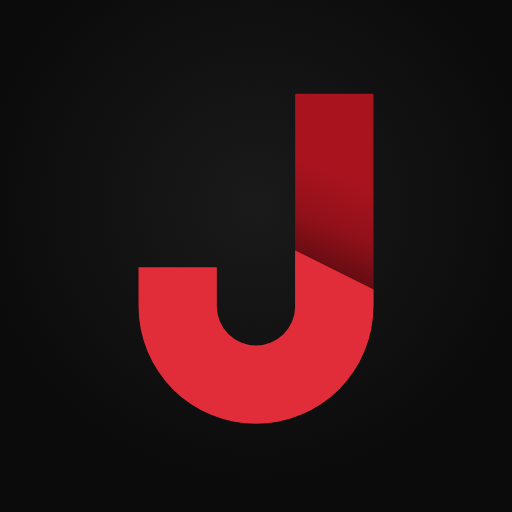
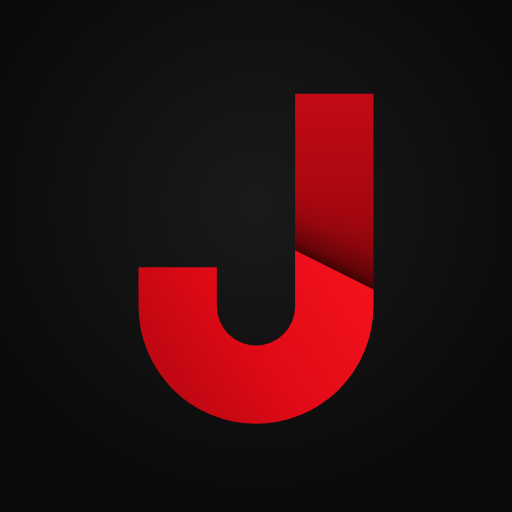
feat(brand): richer J shading
Purer reds, a back ribbon that darkens toward the fold, a cast shadow that
is darkest at the crease and fades quickly, and a front ribbon lit from the
top right that deepens round the bowl. Same shape. Icons and plugin image
re-rendered.

Changed region(s): [[0.25, 0.4688, 0.75, 0.8438], [0.5625, 0.1562, 0.75, 0.2188]]

diff --git a/client/src/components/LumenMark.test.tsx b/client/src/components/LumenMark.test.tsx
@@ -9,7 +9,7 @@ describe('LumenMark', () => {
     const mark = container.querySelector('.lmn-mark.x')!;
     expect(mark.getAttribute('aria-hidden')).toBe('true');
     expect(mark.querySelector('svg')?.getAttribute('viewBox')).toBe('0 0 64 64');
-    expect(mark.querySelector('#lmnJShade')).not.toBeNull();
-    expect(MARK_SVG).toContain('lmnJShade');
+    expect(mark.querySelector('#lmnJFront')).not.toBeNull();
+    expect(MARK_SVG).toContain('lmnJFront');
   });
 });
